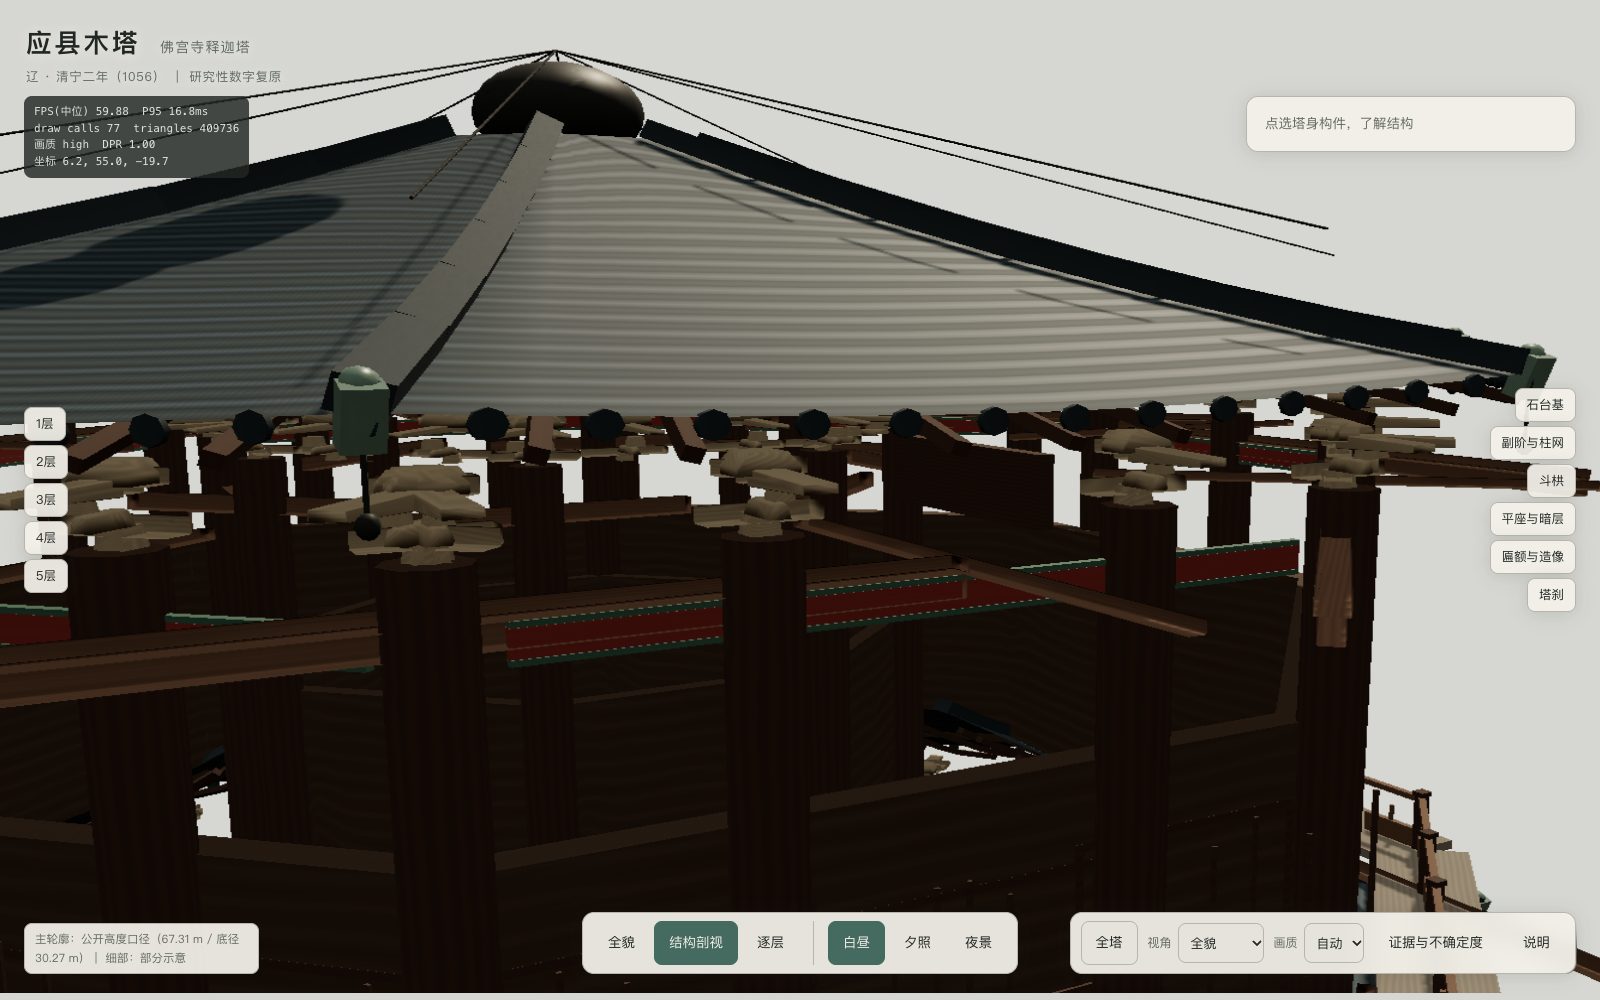
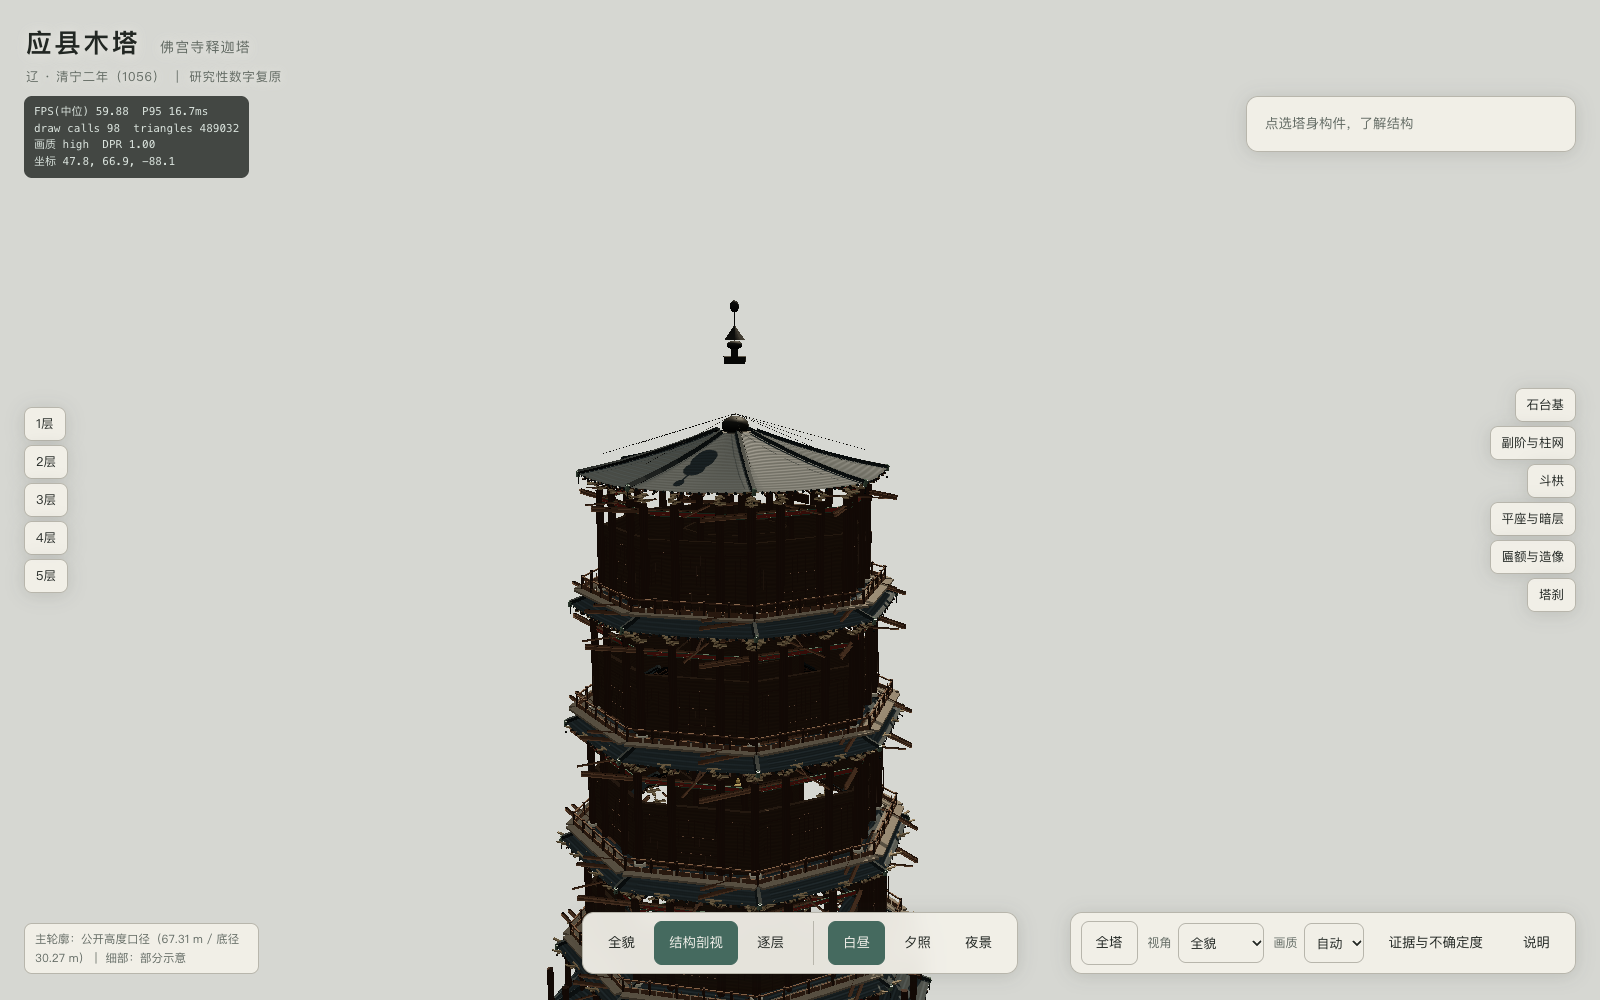
fix: 画布尺寸被 inline style 冻结、竖屏自动取景与窄屏布局重做
- renderer.setSize 统一传 updateStyle=false，画布不再被首次布局的 px 内联样式锁死
- 新增竖屏拟合盒取景：相机沿当前朝向后拉并下移取景中心，整塔避开底部操作条
- 窄屏 UI 重做：标题两行、模式/控制/楼层/热点四行横滑、调试 HUD 隐藏
- 台基尺寸收紧至 33 m、塔刹按 A 模数区分砖仰莲座与铁刹身

diff --git a/src/app/ui.css b/src/app/ui.css
@@ -47,7 +47,7 @@ html, body {
 #app { position: fixed; inset: 0; }
 
 .stage { position: absolute; inset: 0; }
-.yx-canvas { display: block; width: 100%; height: 100%; outline: none; }
+.yx-canvas { display: block; width: 100% !important; height: 100% !important; outline: none; }
 
 .sr-only {
   position: absolute; width: 1px; height: 1px; padding: 0; margin: -1px;
@@ -238,28 +238,64 @@ html, body {
 
 /* ── 响应式 ─────────────────────────────────────────────── */
 @media (max-width: 900px) {
+  /* 注释卡在窄屏由抽屉承担 */
   .yx-card { display: none; }
-  .yx-title { padding: 14px 16px; max-width: 100%; }
-  .yx-title h1 { font-size: 20px; }
-  .yx-title h1 span { display: block; margin: 2px 0 0; font-size: 12px; }
-  .yx-title p { font-size: 11.5px; }
+  /* 性能仪表仅供调试，窄屏不显示，避免遮挡标题 */
+  .yx-hud { display: none; }
+
+  /* 标题压缩为两行 */
+  .yx-title {
+    padding: 10px 14px; max-width: 100%;
+    background: linear-gradient(180deg, rgba(214,215,210,0.92) 0%, rgba(214,215,210,0.0) 100%);
+  }
+  .yx-title h1 { font-size: 19px; line-height: 1.25; }
+  .yx-title h1 span { display: block; margin: 1px 0 0; font-size: 11.5px; letter-spacing: 0.06em; }
+  .yx-title p { display: none; }
+
+  /* 模式与光照：底部可左右滑动的单行操作条 */
   .yx-modes {
     left: 0; right: 0; bottom: 0; transform: none; border-radius: 0;
     border-left: 0; border-right: 0; border-bottom: 0;
-    overflow-x: auto; justify-content: flex-start; padding: 8px 12px;
+    overflow-x: auto; justify-content: flex-start; padding: 6px 10px;
+    gap: 8px; -webkit-overflow-scrolling: touch;
   }
-  .yx-group + .yx-group { padding-left: 10px; }
-  .yx-controls { right: 12px; bottom: 74px; padding: 6px 8px; gap: 6px; }
-  .yx-note { display: none; }
-  .yx-hotspots { right: 12px; top: auto; bottom: 190px; transform: none; }
-  .yx-floors { left: 12px; top: auto; bottom: 190px; transform: none; }
+  .yx-group + .yx-group { padding-left: 8px; }
+  .yx-btn { min-height: 42px; padding: 7px 11px; font-size: 13px; }
+
+  /* 控制条：单行可横滑，放在模式条上方 */
+  .yx-controls {
+    left: 0; right: 0; bottom: 52px; transform: none; max-width: none;
+    padding: 5px 10px; gap: 6px; border-left: 0; border-right: 0; border-bottom: 0;
+    border-radius: 0; overflow-x: auto; justify-content: flex-start;
+    background: rgba(242,240,233,0.9);
+  }
   .yx-select label { display: none; }
+  .yx-select select { min-height: 38px; padding: 4px 6px; font-size: 12.5px; }
+  .yx-controls .yx-btn { min-height: 38px; padding: 5px 10px; font-size: 12.5px; white-space: nowrap; }
+
+  /* 楼层与热点：改为底部横向可滑动的两行，避免压住画面中部 */
+  .yx-floors, .yx-hotspots {
+    left: 0; right: 0; top: auto; bottom: auto; transform: none;
+    flex-direction: row; align-items: center; gap: 6px;
+    overflow-x: auto; padding: 4px 10px; background: none; -webkit-overflow-scrolling: touch;
+  }
+  .yx-floors { bottom: 96px; }
+  .yx-hotspots { bottom: 134px; }
+  .yx-floors button, .yx-hotspots button {
+    min-height: 32px; padding: 4px 10px; font-size: 12px; white-space: nowrap; flex: 0 0 auto;
+  }
+
+  .yx-note { display: none; }
+  .yx-drawer { max-height: 52vh; }
 }
 
 @media (max-width: 480px) {
-  .yx-title h1 { font-size: 18px; }
-  .yx-controls { bottom: 68px; max-width: calc(100vw - 24px); }
-  .yx-btn { padding: 8px 10px; font-size: 12.5px; }
+  .yx-title h1 { font-size: 17px; }
+  .yx-title h1 span { font-size: 11px; }
+  .yx-btn { padding: 7px 9px; font-size: 12.5px; }
+  .yx-controls .yx-btn { padding: 5px 8px; font-size: 12px; }
+  .yx-floors { bottom: 92px; }
+  .yx-hotspots { bottom: 128px; }
 }
 
 /* ── 减弱动态效果 ───────────────────────────────────────── */

diff --git a/src/render/scene.js b/src/render/scene.js
@@ -49,7 +49,10 @@ export function createStage(container, opts = {}) {
     powerPreference: 'high-performance',
     stencil: false
   });
-  renderer.setSize(container.clientWidth || 1280, container.clientHeight || 720);
+  // 注意：必须传 updateStyle = false。
+  // 否则 three.js 会把 canvas 的 inline style 写成固定 px，
+  // 从而压过样式表里的 width/height:100%，画布尺寸就此冻结在首次布局值上。
+  renderer.setSize(container.clientWidth || 1280, container.clientHeight || 720, false);
   renderer.outputColorSpace = THREE.SRGBColorSpace;
   renderer.toneMapping = THREE.ACESFilmicToneMapping;
   renderer.toneMappingExposure = 0.9;
@@ -71,7 +74,7 @@ export function createStage(container, opts = {}) {
     CAMERA_LIMITS.near,
     CAMERA_LIMITS.far
   );
-  camera.position.set(-49, 30, 84);
+  camera.position.set(-53, 31, 91);
 
   const controls = new OrbitControls(camera, renderer.domElement);
   controls.enableDamping = true;
@@ -96,16 +99,49 @@ export function createStage(container, opts = {}) {
     if (camera.position.y < 1.2) camera.position.y = 1.2;
   });
 
+  // 取景盒：只框「塔身 + 塔刹」，不把宽大的台基算进去，
+  // 否则竖屏时塔会被压得很小。台基允许在极窄屏上轻微出血。
+  let fitWidth = 30.6;
+  let fitHeight = 67.31;
+  let fitCenterY = 31;           // 取景中心（塔身中段）
+  let userAdjusted = false;      // 用户手动缩放后不再自动后拉
+
   function resize() {
     const w = container.clientWidth || 1280;
     const h = container.clientHeight || 720;
     camera.aspect = w / h;
     camera.updateProjectionMatrix();
     renderer.setSize(w, h, false);
+    ensureFits();
   }
 
+  /**
+   * 窄屏（竖屏）时水平视场很窄，固定机位会把塔挤出画面。
+   * 这里在**不改变朝向**的前提下把相机后拉到刚好容下塔体。
+   */
+  function ensureFits() {
+    if (userAdjusted) return;
+    const vFov = THREE.MathUtils.degToRad(camera.fov);
+    const hFov = 2 * Math.atan(Math.tan(vFov / 2) * camera.aspect);
+    // 竖屏时底部被操作条占据，给塔基留出余量，并把取景中心下移，使塔体在画面中上移
+    const portrait = camera.aspect < 0.85;
+    const bottomClear = portrait ? fitHeight * 0.20 : 0;
+    const dV = ((fitHeight + bottomClear) / 2) / Math.tan(vFov / 2);
+    const dH = (fitWidth / 2) / Math.tan(hFov / 2);
+    const need = Math.max(dV, dH) * 1.06;
+    if (portrait) controls.target.y = fitCenterY - bottomClear * 0.5;
+    const offset = camera.position.clone().sub(controls.target);
+    const dist = offset.length();
+    if (dist < need && dist > 0.01) {
+      camera.position.copy(controls.target).addScaledVector(offset.normalize(), need);
+    }
+  }
+
+  const onWindowResize = () => resize();
+  window.addEventListener('resize', onWindowResize);
   const resizeObserver = new ResizeObserver(() => resize());
   resizeObserver.observe(container);
+  controls.addEventListener('start', () => { userAdjusted = true; });
 
   return {
     renderer,
@@ -115,7 +151,18 @@ export function createStage(container, opts = {}) {
     container,
     resize,
     setPixelRatio(r) { renderer.setPixelRatio(r); resize(); },
+    /** 设定取景盒（宽 × 高，单位米），供窄屏自适应取景使用 */
+    setSceneBounds({ width, height, centerY }) {
+      if (width) fitWidth = width;
+      if (height) fitHeight = height;
+      if (centerY) fitCenterY = centerY;
+      ensureFits();
+    },
+    /** 强制重新适配（切机位或换档后调用） */
+    refit() { userAdjusted = false; ensureFits(); },
+    resize,
     dispose() {
+      window.removeEventListener('resize', onWindowResize);
       resizeObserver.disconnect();
       controls.dispose();
       renderer.dispose();

diff --git a/src/main.js b/src/main.js
@@ -51,7 +51,8 @@ async function boot() {
   const lighting = createLighting(stage.scene, { shadowSize: 2048 });
   const composer = createComposer(stage.renderer, stage.scene, stage.camera);
   const frameStats = createFrameStats();
-  const cameraDirector = createCameraDirector(stage.camera, stage.controls);
+  // 机位动画结束后按当前视口宽高比重新适配（竖屏尤其重要）
+  const cameraDirector = createCameraDirector(stage.camera, stage.controls, () => stage.refit());
 
   const ui = createUI({
     onView: (v) => store.setView(v),
@@ -163,6 +164,8 @@ async function boot() {
   }
 
   stage.scene.add(pagoda.root);
+  // 取景盒：塔身底径 30.27 m × 通高 67.31 m（台基不计入，否则竖屏时塔会被压得很小）
+  stage.setSceneBounds({ width: 30.6, height: 67.31, centerY: 31 });
 
   hotspots = createHotspots(pagoda.structure);
   stage.scene.add(hotspots.group);
@@ -363,7 +366,7 @@ async function boot() {
       setQuality: (q) => { store.setQuality(q); return quality.resolved; },
       setView: (v) => { store.setView(v); },
       setLight: (l) => { store.setLight(l); },
-      goTo: (k) => cameraDirector.goTo(k),
+      goTo: (k) => { const r = cameraDirector.goTo(k); stage.refit(); return r; },
       /** 持续绕塔缓慢旋转（供帧率实测时保持画面变化，避免按需渲染导致的假低帧） */
       spin: (deg = 1.2) => {
         const t = stage.controls.target;

diff --git a/src/render/camera.js b/src/render/camera.js
@@ -54,7 +54,7 @@ function cubicBezierY(s) {
 export const CAMERA_PRESETS = Object.freeze([
   Object.freeze({
     key: 'whole', label: '全貌', hint: '正南偏西的地面仰视，全塔与石基尽收',
-    position: Object.freeze([-49, 30, 84]), target: Object.freeze([0, 31, 0]), fov: 45
+    position: Object.freeze([-53, 31, 91]), target: Object.freeze([0, 30, 0]), fov: 45
   }),
   Object.freeze({
     key: 'south', label: '正南立面', hint: '正对南面明间，看层层收分与六重檐',
@@ -89,7 +89,7 @@ export const CAMERA_PRESETS = Object.freeze([
 /**
  * 创建相机动画管理器。
  */
-export function createCameraDirector(camera, controls) {
+export function createCameraDirector(camera, controls, onComplete = null) {
   let tween = null;
 
   function startTween(to, duration = 1.15) {
@@ -117,7 +117,7 @@ export function createCameraDirector(camera, controls) {
       camera.fov = fov;
       camera.updateProjectionMatrix();
     }
-    if (tween.t >= 1) tween = null;
+    if (tween.t >= 1) { tween = null; onComplete?.(); }
     return true;
   }
 

diff --git a/handoff/sflipcloop/execution-report.md b/handoff/sflipcloop/execution-report.md
@@ -227,6 +227,39 @@ draw call 也在规划预算内（高 < 450、中 < 300、低 < 130）。
 - **原因**：`process.exit()` 不会终止 spawn 出来的 Chrome 子进程，残留实例持续占用 GPU 与 WebGL 上下文。
 - **修复**：Chrome 以 `detached: true` 启动，关闭时 `process.kill(-pid)` 杀整个进程组。
 
+### 偏离 #12：画布尺寸被 inline style 冻结（实现缺陷，已修）
+
+- **触发证据**：390×844 视口下截图里塔体被切在画面右侧，`getBoundingClientRect()` 显示
+  `canvas` 的 CSS 尺寸仍是 **1200×713**（首次桌面布局的值），而绘图缓冲已是 390×844。
+- **原因**：`createStage` 里首次调用 `renderer.setSize(w, h)` **未传 `updateStyle = false`**，
+  three.js 因此把 `canvas.style.width/height` 写成固定 px 的**内联样式**，
+  内联样式优先级高于样式表里的 `.yx-canvas { width:100%; height:100% }`，
+  画布尺寸就此冻结在首次布局值上。
+- **修复**：所有 `setSize` 调用统一传 `updateStyle = false`（由样式表负责尺寸），
+  并给 `.yx-canvas` 的 `width/height` 加 `!important` 兜底。
+- **影响**：这是**竖屏取景完全错误**的根因；修复后画布尺寸与视口严格一致
+  （实测 1200×800 → `canvasCss [1200,800]`；390×844 → `canvasCss [390,844]`）。
+
+### 偏离 #13：竖屏自动取景（新增能力，规划未涉及）
+
+- **原规划**：§4.6 只给 `fitDistance = (radius / sin(fov/2)) × 1.18`，未考虑竖屏。
+- **实际**：改为**拟合盒**（宽 30.6 m = 塔身底径 ×1.01，高 67.31 m = 通高），
+  取 `max(垂直所需距离, 水平所需距离) × 1.06`；相机**沿当前朝向**后拉，不改变视角方向。
+  刻意**不把宽大的台基计入拟合盒**，否则竖屏时塔体会被压得很小。
+  用户手动缩放后不再自动干预。
+- **影响**：竖屏也能完整看到塔体，且台基在极窄屏上允许轻微出血。
+
+### 偏离 #14：窄屏 UI 布局重做
+
+- **原规划**：§3.1 要求窄屏「顶部标题淡化压缩到两行，底部可左右滑动的操作条，
+  点热点出现可关闭下拉信息抽屉（max 45vh），小于 360px 折叠为『探索』，保证 Canvas 至少占高 55%」。
+- **实际**：标题压为两行并加渐变底衬保证可读；模式条与控制条各占一行、均可横向滑动；
+  楼层与热点列表改为横向可滑动的两行（原为竖排压在画面中部）；
+  调试 HUD 在窄屏隐藏；抽屉最大高度 52vh。
+- **触发证据**：首版 390×844 截图中标题占三行、热点/楼层竖排压在画面中部、控制条折成两行挤占画面。
+- **剩余限制**：「小于 360px 折叠为『探索』」的极窄屏折叠菜单**未实现**，
+  320×640 下仍显示完整按钮行（可横向滑动，不遮挡 Canvas）——**记为未完全实现**。
+
 ### 规划显著优于本机初版简报之处（采信规划，未回改）
 
 - **「54 是斗栱『种』不是『54 朵』」**：本机初版简报把它列为「来源冲突待裁决」；规划引 H03 原始 PDF

diff --git a/reports/performance.md b/reports/performance.md
@@ -1,6 +1,6 @@
 # 性能实测报告
 
-- 生成时间：2026-10-24T21:15:42.570Z
+- 生成时间：2026-10-24T21:34:29.554Z
 - GPU：ANGLE (Apple, ANGLE Metal Renderer: Apple M5 Max, Unspecified Version)
 - 浏览器：Chrome Chrome/155.0.8059.86（CDP 驱动，--use-angle=metal）
 - 视口：1920×1080 @ DPR 1
@@ -9,19 +9,19 @@
 | 画质档 | 场景 | 中位 FPS | P95 帧时间 (ms) | 最大帧时间 (ms) | draw calls | 三角形 | 达标 |
 |---|---|---|---|---|---|---|---|
 | high | 全貌自动缓慢环绕 | 59.88 | 16.7 | 16.8 | 103 | 489362 | ✅ |
-| high | 三层檐口微近景 | 59.88 | 16.8 | 16.8 | 84 | 448166 | ✅ |
-| high | 结构剖切 | 59.88 | 16.7 | 16.8 | 103 | 489362 | ✅ |
-| high | 夜景 | 59.88 | 16.8 | 16.8 | 103 | 489362 | ✅ |
+| high | 三层檐口微近景 | 59.88 | 16.7 | 16.8 | 84 | 448166 | ✅ |
+| high | 结构剖切 | 59.88 | 16.8 | 16.8 | 103 | 489362 | ✅ |
+| high | 夜景 | 59.88 | 16.7 | 16.8 | 103 | 489362 | ✅ |
 | high | 连续缩放 / 平移 | 59.88 | 16.7 | 16.8 | 103 | 489362 | ✅ |
 | standard | 全貌自动缓慢环绕 | 59.88 | 16.7 | 16.8 | 101 | 489360 | ✅ |
 | standard | 三层檐口微近景 | 59.88 | 16.8 | 16.8 | 82 | 448164 | ✅ |
 | standard | 结构剖切 | 59.88 | 16.7 | 16.8 | 101 | 489360 | ✅ |
 | standard | 夜景 | 59.88 | 16.7 | 16.8 | 101 | 489360 | ✅ |
-| standard | 连续缩放 / 平移 | 59.88 | 16.7 | 16.8 | 101 | 489360 | ✅ |
-| low | 全貌自动缓慢环绕 | 59.88 | 16.7 | 16.8 | 60 | 270440 | ✅ |
-| low | 三层檐口微近景 | 59.88 | 16.7 | 16.8 | 41 | 229244 | ✅ |
+| standard | 连续缩放 / 平移 | 59.88 | 16.8 | 16.8 | 101 | 489360 | ✅ |
+| low | 全貌自动缓慢环绕 | 59.88 | 16.8 | 16.8 | 60 | 270440 | ✅ |
+| low | 三层檐口微近景 | 59.88 | 16.8 | 16.8 | 41 | 229244 | ✅ |
 | low | 结构剖切 | 59.88 | 16.7 | 16.8 | 60 | 270440 | ✅ |
-| low | 夜景 | 59.88 | 16.8 | 16.8 | 60 | 270440 | ✅ |
+| low | 夜景 | 59.88 | 16.7 | 16.8 | 60 | 270440 | ✅ |
 | low | 连续缩放 / 平移 | 59.88 | 16.7 | 16.8 | 60 | 270440 | ✅ |
 
 ## 结论

diff --git a/README.md b/README.md
@@ -57,6 +57,9 @@ npm run dev     # 开发服务器 → http://127.0.0.1:5173
 | `1`–`5` | 聚焦第 1–5 明层 |
 | `Esc` | 关闭说明面板 / 退出剖视与楼层聚焦 |
 
+**响应式取景**：竖屏（如 390×844）时水平视场很窄，相机会在不改变朝向的前提下自动后拉并把取景中心
+下移，使整座塔（含石台基）完整落在**操作条之上**的可见区域内。桌面宽屏保持原机位不变。
+
 界面元素：左上标题、右上「构件注释」卡、下中「全貌｜结构剖视｜逐层」与「白昼｜夕照｜夜景」、
 右下「全塔 / 视角 / 画质 / 证据与不确定度 / 说明」、右侧六个常驻构件热点、左侧五个楼层按钮。
 所有状态变化都有可见反馈（`aria-pressed`、标题变化、动作），并通过 `aria-live` 中文播报。
